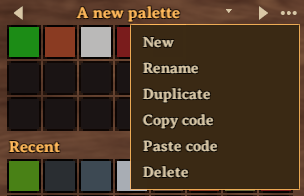
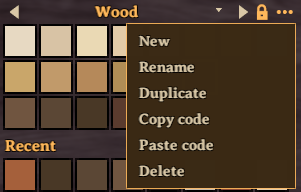
Give the palette name more room and keep it on one line
The row's buttons now sit by their drawings rather than their squares,
widening the name by 18 px, and the name shrinks step by step (16 down
to 10) to fit instead of wrapping, which Unity's best fit did. Updated
screenshots for the padlock.

diff --git a/UI/PresetBar.cs b/UI/PresetBar.cs
@@ -27,6 +27,8 @@ internal static class PresetBar
     private const int ListVisibleRows = 8;
     private const float MenuWidth = 168f;
     private const float Padding = 4f;
+    private const int NameSize = 16;
+    private const int NameMinSize = 10;
 
     private static readonly Color IconColor = new(0.85f, 0.78f, 0.65f);
     private static readonly Color IconHover = new(1f, 0.72f, 0.36f);
@@ -97,20 +99,20 @@ internal static class PresetBar
         Entries.Add(new Entry("$paintbrush_menu_paste_code", PasteCode));
         Entries.Add(new Entry("$paintbrush_menu_delete", Delete, () => PaletteLibrary.CanDelete, keepOpen: true));
 
-        // ◀ name ▶ 🔒 ⋯, with the padlock placed so it looks evenly spaced between the arrow and the dots, whose
-        // drawings don't fill their squares the same way.
+        // ◀ name ▶ 🔒 ⋯. The drawings don't fill their squares (the arrows leave a margin each side, the dots don't),
+        // so the squares overlap the name's box a little and the padlock sits where the gaps look even.
         _closedLock = MakePadlock(open: false);
         _openLock = MakePadlock(open: true);
 
         _previous = Icon(root, "Previous", x, y, height, MakeArrow(right: false), () => PaletteLibrary.Cycle(-1));
-        _next = Icon(root, "Next", x + width - (3f * height) - 10f, y, height, MakeArrow(right: true), () => PaletteLibrary.Cycle(1));
-        _lock = Icon(root, "Lock", x + width - (2f * height) - 7f, y, height, _closedLock, PaletteEdit.ToggleLock);
+        _next = Icon(root, "Next", x + width - (3f * height) - 2f, y, height, MakeArrow(right: true), () => PaletteLibrary.Cycle(1));
+        _lock = Icon(root, "Lock", x + width - (2f * height) - 3f, y, height, _closedLock, PaletteEdit.ToggleLock);
         _lockImage = (Image)_lock.Target;
         _more = Icon(root, "More", x + width - height, y, height, MakeDots(), ToggleMenu).GetComponent<RectTransform>();
 
         // The name and a small down arrow, together one button that opens the list.
-        float nameX = x + height + 4f;
-        float nameWidth = width - (4f * height) - 18f;
+        float nameX = x + 16f;
+        float nameWidth = width - (4f * height) - 2f;
         Image nameBack = Image(root, "Name", nameX, y - 2f, nameWidth, height + 4f, RowNormal, White);
         _nameButton = nameBack.rectTransform;
         HoverButton nameButton = nameBack.gameObject.AddComponent<HoverButton>();
@@ -119,11 +121,9 @@ internal static class PresetBar
         nameButton.Hover = RowHover;
         nameButton.Clicked = ToggleList;
 
-        _name = Label(nameBack.transform, "", 4f, 0f, nameWidth - 22f, height + 4f, labelColor, 16);
+        _name = Label(nameBack.transform, "", 4f, 0f, nameWidth - 24f, height + 4f, labelColor, NameSize);
         _name.alignment = TextAnchor.MiddleCenter;
-        _name.resizeTextForBestFit = true;
-        _name.resizeTextMinSize = 10;
-        _name.resizeTextMaxSize = 16;
+        _name.horizontalOverflow = HorizontalWrapMode.Overflow;
         Image arrow = Image(nameBack.transform, "Arrow", nameWidth - 16f, 4f, 12f, 12f, IconColor, MakeArrowDown());
         arrow.raycastTarget = false;
 
@@ -140,6 +140,7 @@ internal static class PresetBar
 
         Palette active = PaletteLibrary.Active;
         _name.text = active.IsBuiltIn ? Localize("$paintbrush_palette_builtin_name", active.Name) : active.Name;
+        FitName();
         bool several = PaletteLibrary.Palettes.Count > 1;
         _previous.Interactable = several;
         _next.Interactable = several;
@@ -180,6 +181,20 @@ internal static class PresetBar
         if (_list != null)
         {
             _list.gameObject.SetActive(false);
+        }
+    }
+
+    /// <summary>
+    /// Keeps the name on one line, shrinking it as far as <see cref="NameMinSize"/> to fit. (Unity's best fit would
+    /// wrap it onto a second line instead.)
+    /// </summary>
+    private static void FitName()
+    {
+        float room = _name.rectTransform.rect.width;
+        _name.fontSize = NameSize;
+        while (_name.fontSize > NameMinSize && _name.preferredWidth > room)
+        {
+            _name.fontSize--;
         }
     }
 
